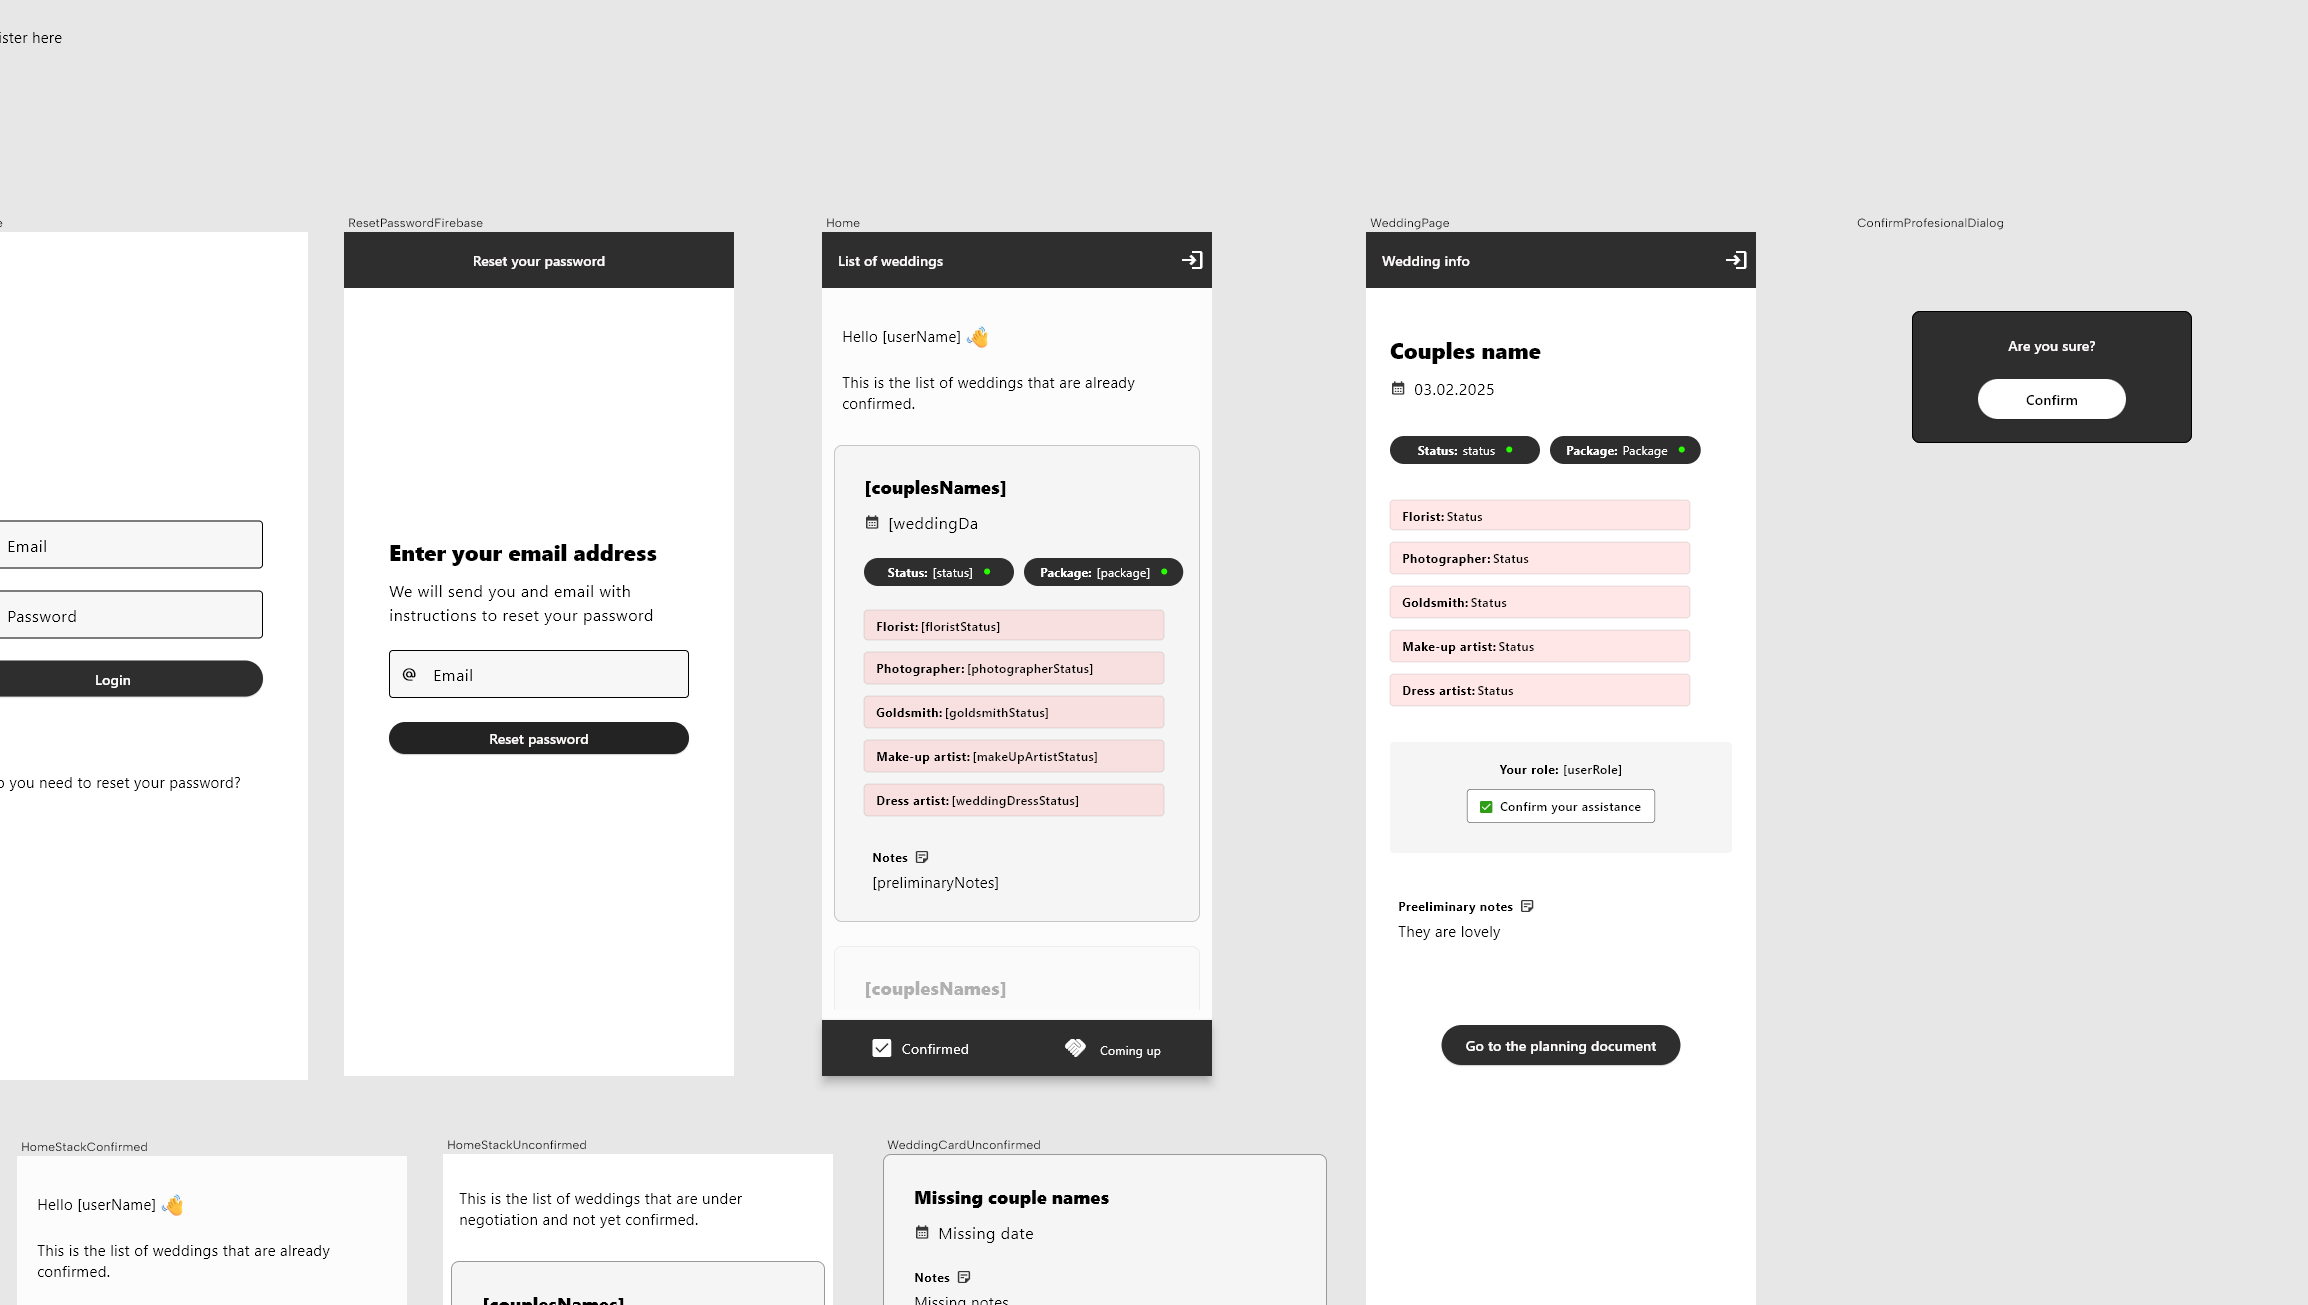
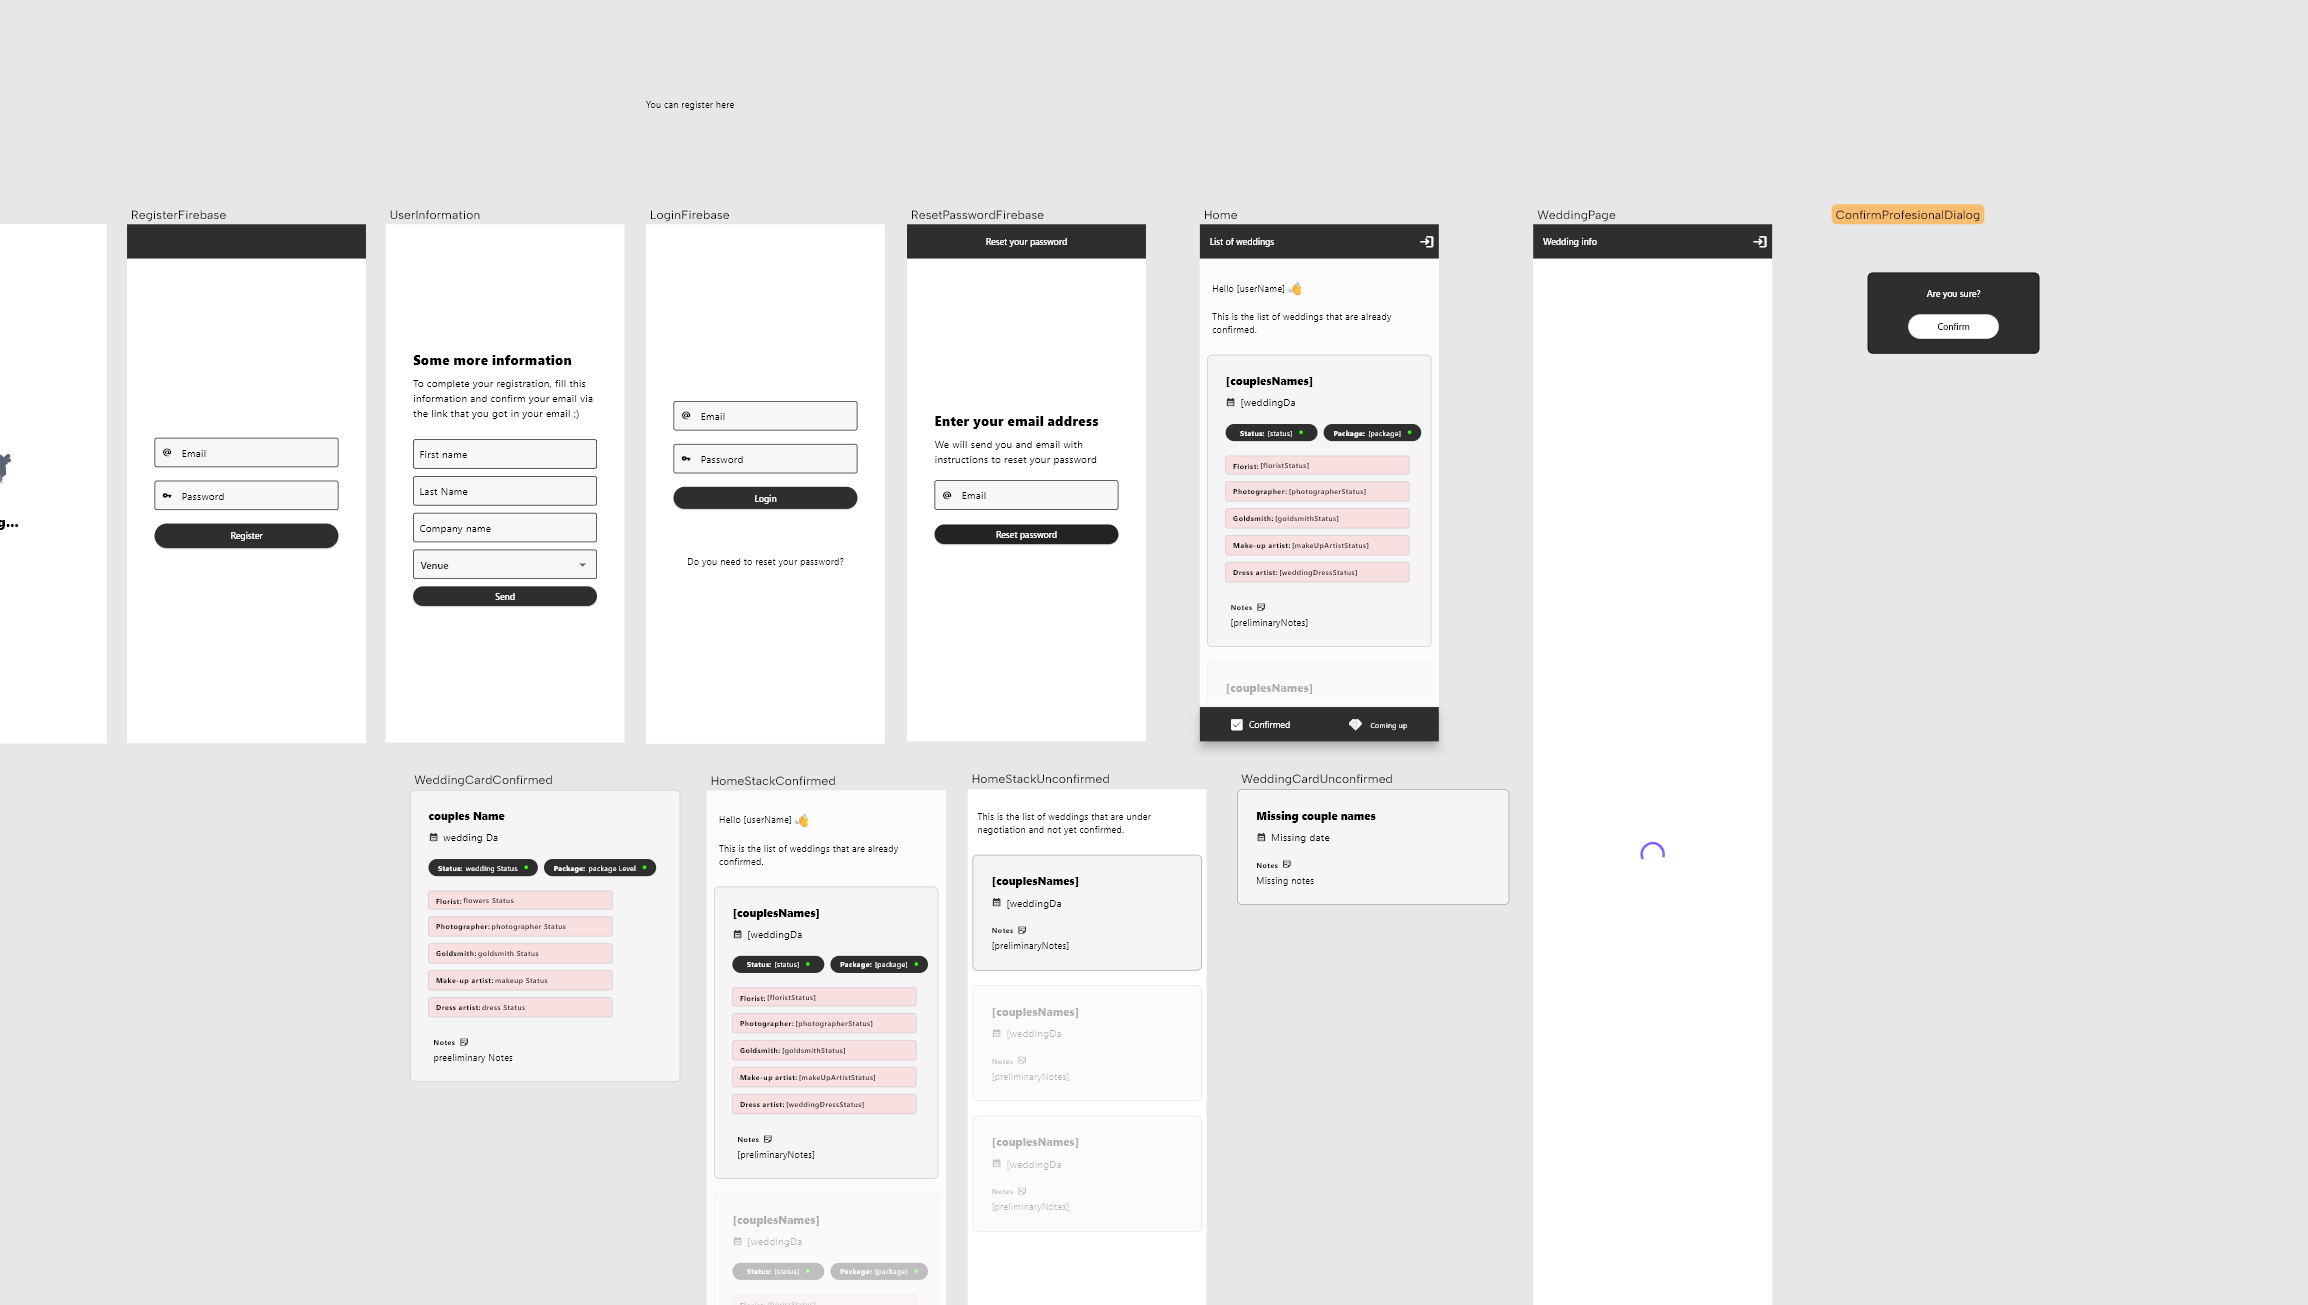
08.03 17.56

diff --git a/lib/wedding_page.dart b/lib/wedding_page.dart
@@ -1,11 +1,11 @@
 import 'package:flutter/material.dart';
 import 'package:nowa_runtime/nowa_runtime.dart';
+import 'package:kappeliranta/models/get_wedding_model.dart';
+import 'package:kappeliranta/api/weddings.api.dart';
 import 'package:kappeliranta/user_info.dart';
 import 'package:kappeliranta/confirm_profesional_dialog.dart';
 import 'package:kappeliranta/firebase/firebase.dart';
 import 'package:kappeliranta/login_firebase.dart';
-import 'package:kappeliranta/models/get_wedding_model.dart';
-import 'package:kappeliranta/api/weddings.api.dart';
 
 @NowaGenerated({'auto-height': 2000.0, 'auto-width': 365.0})
 class WeddingPage extends StatefulWidget {
@@ -26,7 +26,7 @@ class _WeddingPageState extends State<WeddingPage> {
 
   String? weddingDate = '03.02.2025';
 
-  bool? loader = false;
+  bool? loader = true;
 
   String? packageLevel = 'Package';
 
@@ -79,94 +79,6 @@ class _WeddingPageState extends State<WeddingPage> {
   String? dressArtistName = 'makeupArtistName';
 
   String? goldsmithName = 'makeupArtistName';
-
-  Future<void> fetchData() async {
-    var weddingFromApi =
-        await Weddings().getWedding(record_ID_request: widget.record_ID);
-    couplesName = weddingFromApi!.data!.records![0]?.fields?.couplesNames;
-    weddingDate = weddingFromApi!.data!.records![0]?.fields?.weddingDate;
-    weddingStatus = weddingFromApi!.data!.records![0]?.fields?.status;
-    floristStatus = weddingFromApi!.data!.records![0]?.fields?.floristStatus;
-    floristName = weddingFromApi!.data!.records![0]?.fields?.floristName;
-    if (floristStatus == 'Confirmed') {
-      floristVisibility = true;
-      colorFlorist = const Color(0x1a27ff00);
-    }
-    photographerStatus =
-        weddingFromApi!.data!.records![0]?.fields?.photographerStatus;
-    photographerName =
-        weddingFromApi!.data!.records![0]?.fields?.photographerName;
-    if (photographerStatus == 'Confirmed') {
-      photographerVisibility = true;
-      colorPhotographer = const Color(0x1a27ff00);
-    }
-    goldsmithStatus =
-        weddingFromApi!.data!.records![0]?.fields?.goldsmithStatus;
-    goldsmithName = weddingFromApi!.data!.records![0]?.fields?.goldsmithName;
-    if (goldsmithStatus == 'Confirmed') {
-      GoldsmithVisibility = true;
-      colorGoldsmith = const Color(0x1a27ff00);
-    }
-    makeupStatus =
-        weddingFromApi!.data!.records![0]?.fields?.makeUpArtistStatus;
-    makeupArtistName =
-        weddingFromApi!.data!.records![0]?.fields?.makeUpArtistName;
-    if (makeupStatus == 'Confirmed') {
-      MakeupArtistVisibility = true;
-      ColorMakeUp = const Color(0x1a27ff00);
-    }
-    dressStatus = weddingFromApi!.data!.records![0]?.fields?.weddingDressStatus;
-    dressArtistName =
-        weddingFromApi!.data!.records![0]?.fields?.weddingDressName;
-    if (dressStatus == 'Confirmed') {
-      dressArtistVisibility = true;
-      colorDress = const Color(0x1a27ff00);
-    }
-    weddingFromApi!.data!.records![0]?.fields?.preliminaryNotes;
-    documentLink = weddingFromApi!.data!.records![0]?.fields?.driveDoc;
-    setState(() {});
-    if (UserInfo.of(context, listen: false).userRole == 'Venue') {
-      confirmButtonVisibility = false;
-      assitanceConfirmed = true;
-    } else {
-      if (UserInfo.of(context, listen: false).userRole == 'Florist' &&
-          floristStatus == 'Confirmed') {
-        confirmButtonVisibility = false;
-        assitanceConfirmed = true;
-      } else {
-        if (UserInfo.of(context, listen: false).userRole == 'Goldsmith' &&
-            goldsmithStatus == 'Confirmed') {
-          confirmButtonVisibility = false;
-          assitanceConfirmed = true;
-        }
-        if (UserInfo.of(context, listen: false).userRole == 'Make-up artist' &&
-            makeupStatus == 'Confirmed') {
-          confirmButtonVisibility = false;
-          assitanceConfirmed = true;
-        } else {
-          if (UserInfo.of(context, listen: false).userRole == 'Bridal' &&
-              dressStatus == 'Confirmed') {
-            confirmButtonVisibility = false;
-            assitanceConfirmed = true;
-          } else {
-            if (UserInfo.of(context, listen: false).userRole ==
-                    'Photographer' &&
-                photographerStatus == 'Confirmed') {
-              confirmButtonVisibility = false;
-              assitanceConfirmed = true;
-            }
-          }
-        }
-      }
-    }
-    loader = false;
-  }
-
-  @override
-  void initState() {
-    super.initState();
-    fetchData();
-  }
 
   @override
   Widget build(BuildContext context) {
@@ -1366,5 +1278,93 @@ class _WeddingPageState extends State<WeddingPage> {
         foregroundColor: const Color(0xffffffff),
       ),
     );
+  }
+
+  @override
+  void initState() {
+    super.initState();
+    fetchData();
+  }
+
+  Future<void> fetchData() async {
+    var weddingFromApi =
+        await Weddings().getWedding(record_ID_request: widget.record_ID);
+    couplesName = weddingFromApi!.data!.records![0]?.fields?.couplesNames;
+    weddingDate = weddingFromApi!.data!.records![0]?.fields?.weddingDate;
+    weddingStatus = weddingFromApi!.data!.records![0]?.fields?.status;
+    floristStatus = weddingFromApi!.data!.records![0]?.fields?.floristStatus;
+    floristName = weddingFromApi!.data!.records![0]?.fields?.floristName;
+    if (floristStatus == 'Confirmed') {
+      floristVisibility = true;
+      colorFlorist = const Color(0x1a27ff00);
+    }
+    photographerStatus =
+        weddingFromApi!.data!.records![0]?.fields?.photographerStatus;
+    photographerName =
+        weddingFromApi!.data!.records![0]?.fields?.photographerName;
+    if (photographerStatus == 'Confirmed') {
+      photographerVisibility = true;
+      colorPhotographer = const Color(0x1a27ff00);
+    }
+    goldsmithStatus =
+        weddingFromApi!.data!.records![0]?.fields?.goldsmithStatus;
+    goldsmithName = weddingFromApi!.data!.records![0]?.fields?.goldsmithName;
+    if (goldsmithStatus == 'Confirmed') {
+      GoldsmithVisibility = true;
+      colorGoldsmith = const Color(0x1a27ff00);
+    }
+    makeupStatus =
+        weddingFromApi!.data!.records![0]?.fields?.makeUpArtistStatus;
+    makeupArtistName =
+        weddingFromApi!.data!.records![0]?.fields?.makeUpArtistName;
+    if (makeupStatus == 'Confirmed') {
+      MakeupArtistVisibility = true;
+      ColorMakeUp = const Color(0x1a27ff00);
+    }
+    dressStatus = weddingFromApi!.data!.records![0]?.fields?.weddingDressStatus;
+    dressArtistName =
+        weddingFromApi!.data!.records![0]?.fields?.weddingDressName;
+    if (dressStatus == 'Confirmed') {
+      dressArtistVisibility = true;
+      colorDress = const Color(0x1a27ff00);
+    }
+    weddingFromApi!.data!.records![0]?.fields?.preliminaryNotes;
+    documentLink = weddingFromApi!.data!.records![0]?.fields?.driveDoc;
+    setState(() {});
+    if (UserInfo.of(context, listen: false).userRole == 'Venue') {
+      confirmButtonVisibility = false;
+      assitanceConfirmed = true;
+    } else {
+      if (UserInfo.of(context, listen: false).userRole == 'Florist' &&
+          floristStatus == 'Confirmed') {
+        confirmButtonVisibility = false;
+        assitanceConfirmed = true;
+      } else {
+        if (UserInfo.of(context, listen: false).userRole == 'Goldsmith' &&
+            goldsmithStatus == 'Confirmed') {
+          confirmButtonVisibility = false;
+          assitanceConfirmed = true;
+        }
+        if (UserInfo.of(context, listen: false).userRole == 'Make-up artist' &&
+            makeupStatus == 'Confirmed') {
+          confirmButtonVisibility = false;
+          assitanceConfirmed = true;
+        } else {
+          if (UserInfo.of(context, listen: false).userRole == 'Bridal' &&
+              dressStatus == 'Confirmed') {
+            confirmButtonVisibility = false;
+            assitanceConfirmed = true;
+          } else {
+            if (UserInfo.of(context, listen: false).userRole ==
+                    'Photographer' &&
+                photographerStatus == 'Confirmed') {
+              confirmButtonVisibility = false;
+              assitanceConfirmed = true;
+            }
+          }
+        }
+      }
+    }
+    loader = false;
   }
 }

diff --git a/lib/home_stack_confirmed.dart b/lib/home_stack_confirmed.dart
@@ -3,9 +3,9 @@ import 'package:kappeliranta/weddings_model.dart';
 import 'package:nowa_runtime/nowa_runtime.dart';
 import 'package:kappeliranta/user_info.dart';
 import 'package:kappeliranta/models/get_all_weddings_confirmed_model.dart';
-import 'package:kappeliranta/api/weddings.api.dart';
 import 'package:kappeliranta/wedding_page.dart';
 import 'package:kappeliranta/wedding_card_confirmed.dart';
+import 'package:kappeliranta/api/weddings.api.dart';
 
 @NowaGenerated({'auto-width': 390.0, 'auto-height': 1984.0})
 class HomeStackConfirmed extends StatefulWidget {
@@ -101,36 +101,39 @@ class _HomeStackConfirmedState extends State<HomeStackConfirmed> {
                 builder: (context, data) => ListView.separated(
                   itemCount: data!.data!.records!.length,
                   itemBuilder: (context, index) {
-                    final RecordsItem6? element = data!.data!.records![index];
+                    final RecordsItem6? element = data?.data?.records?[index];
                     return SizedBox(
                       width: null,
                       height: null,
                       child: GestureDetector(
                         onTap: () {
                           Navigator.of(context).push(MaterialPageRoute(
-                              builder: (context) =>
-                                  WeddingPage(record_ID: element!.recordId!)!));
+                              builder: (context) => WeddingPage(
+                                    record_ID: element?.recordId,
+                                  )));
                         },
                         child: WeddingCardConfirmed(
-                            weddingParam: WeddingsModel(
-                          couplesName: element?.fields?.couplesNames,
-                          packageLevel: element?.fields?.package,
-                          weddingStatus: element?.fields?.status,
-                          flowersStatus: element?.fields?.floristStatus,
-                          weddingDate: element?.fields?.weddingDate,
-                          photographerStatus:
-                              element?.fields?.photographerStatus,
-                          goldsmithStatus: element?.fields?.goldsmithStatus,
-                          makeupStatus: element?.fields?.makeUpArtistStatus,
-                          dressStatus: element?.fields?.weddingDressStatus,
-                          floristName: element?.fields?.floristName,
-                          photographerName: element?.fields?.photographerName,
-                          goldsmithName: element?.fields?.goldsmithName,
-                          makeupArtistName: element?.fields?.makeUpArtistName,
-                          dressArtistName: element?.fields?.weddingDressName,
-                          preeliminaryNotes: element?.fields?.preliminaryNotes,
-                          record_ID: element?.recordId,
-                        )),
+                          weddingParam: WeddingsModel(
+                            couplesName: element?.fields?.couplesNames,
+                            packageLevel: element?.fields?.package,
+                            weddingStatus: element?.fields?.status,
+                            flowersStatus: element?.fields?.floristStatus,
+                            weddingDate: element?.fields?.weddingDate,
+                            photographerStatus:
+                                element?.fields?.photographerStatus,
+                            goldsmithStatus: element?.fields?.goldsmithStatus,
+                            makeupStatus: element?.fields?.makeUpArtistStatus,
+                            dressStatus: element?.fields?.weddingDressStatus,
+                            floristName: element?.fields?.floristName,
+                            photographerName: element?.fields?.photographerName,
+                            goldsmithName: element?.fields?.goldsmithName,
+                            makeupArtistName: element?.fields?.makeUpArtistName,
+                            dressArtistName: element?.fields?.weddingDressName,
+                            preeliminaryNotes:
+                                element?.fields?.preliminaryNotes,
+                            record_ID: element?.recordId,
+                          ),
+                        ),
                       ),
                     );
                   },

diff --git a/lib/wedding_card_confirmed.dart b/lib/wedding_card_confirmed.dart
@@ -57,31 +57,6 @@ class _WeddingCardConfirmedState extends State<WeddingCardConfirmed> {
   bool? dressArtistVisibility = false;
 
   @override
-  void initState() {
-    super.initState();
-    if (widget.weddingParam?.flowersStatus == 'Confirmed') {
-      backgroundColorFlorist = const Color(0x1a27ff00);
-      floristVisibility = true;
-    }
-    if (widget.weddingParam?.photographerStatus == 'Confirmed') {
-      backgroundColorPhotographer = const Color(0x1a27ff00);
-      photographerVisibility = true;
-    }
-    if (widget.weddingParam?.goldsmithStatus == 'Confirmed') {
-      backgroundColorGoldsmith = const Color(0x1a27ff00);
-      goldsmithVisibility = true;
-    }
-    if (widget.weddingParam?.makeupStatus == 'Confirmed') {
-      backgroundColorMakeup = const Color(0x1a27ff00);
-      makeupArtistVisibility = true;
-    }
-    if (widget.weddingParam?.dressStatus == 'Confirmed') {
-      backgroundColorDress = const Color(0x1a27ff00);
-      dressArtistVisibility = true;
-    }
-  }
-
-  @override
   Widget build(BuildContext context) {
     return Material(
       color: const Color(0xfff5f5f5),
@@ -821,5 +796,30 @@ class _WeddingCardConfirmedState extends State<WeddingCardConfirmed> {
         ),
       ),
     );
+  }
+
+  @override
+  void initState() {
+    super.initState();
+    if (widget.weddingParam?.flowersStatus == 'Confirmed') {
+      backgroundColorFlorist = const Color(0x1a27ff00);
+      floristVisibility = true;
+    }
+    if (widget.weddingParam?.photographerStatus == 'Confirmed') {
+      backgroundColorPhotographer = const Color(0x1a27ff00);
+      photographerVisibility = true;
+    }
+    if (widget.weddingParam?.goldsmithStatus == 'Confirmed') {
+      backgroundColorGoldsmith = const Color(0x1a27ff00);
+      goldsmithVisibility = true;
+    }
+    if (widget.weddingParam?.makeupStatus == 'Confirmed') {
+      backgroundColorMakeup = const Color(0x1a27ff00);
+      makeupArtistVisibility = true;
+    }
+    if (widget.weddingParam?.dressStatus == 'Confirmed') {
+      backgroundColorDress = const Color(0x1a27ff00);
+      dressArtistVisibility = true;
+    }
   }
 }

diff --git a/lib/home_stack_unconfirmed.dart b/lib/home_stack_unconfirmed.dart
@@ -4,8 +4,6 @@ import 'package:nowa_runtime/nowa_runtime.dart';
 import 'package:kappeliranta/models/get_weddings_unconfirmed_model1.dart';
 import 'package:kappeliranta/wedding_card_unconfirmed.dart';
 import 'package:kappeliranta/api/weddings.api.dart';
-import 'package:kappeliranta/wedding_page.dart';
-import 'package:kappeliranta/wedding_card_confirmed.dart';
 
 @NowaGenerated({'auto-width': 390.0, 'auto-height': 1984.0})
 class HomeStackUnconfirmed extends StatefulWidget {
